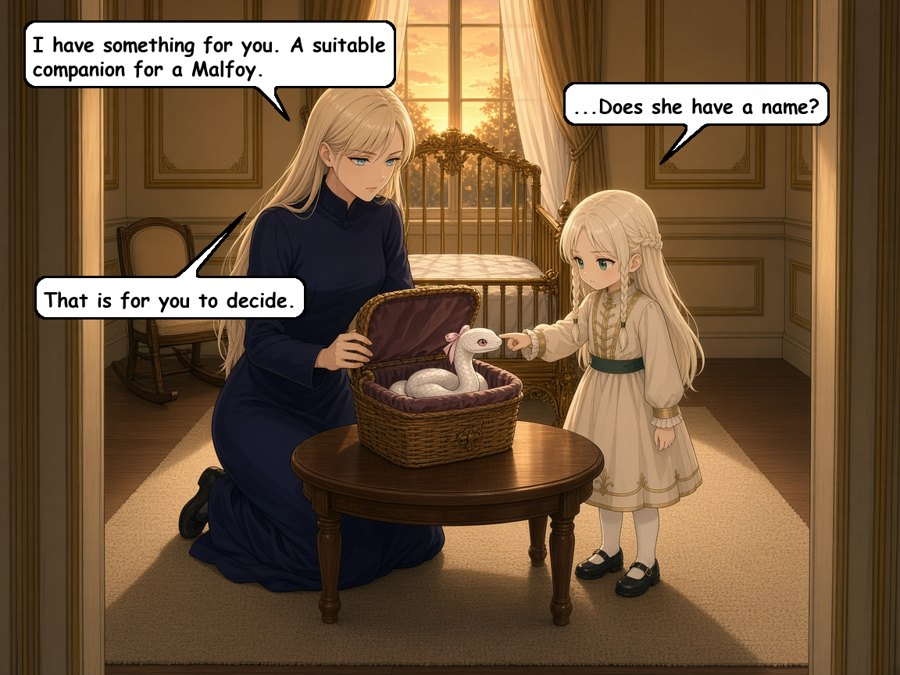
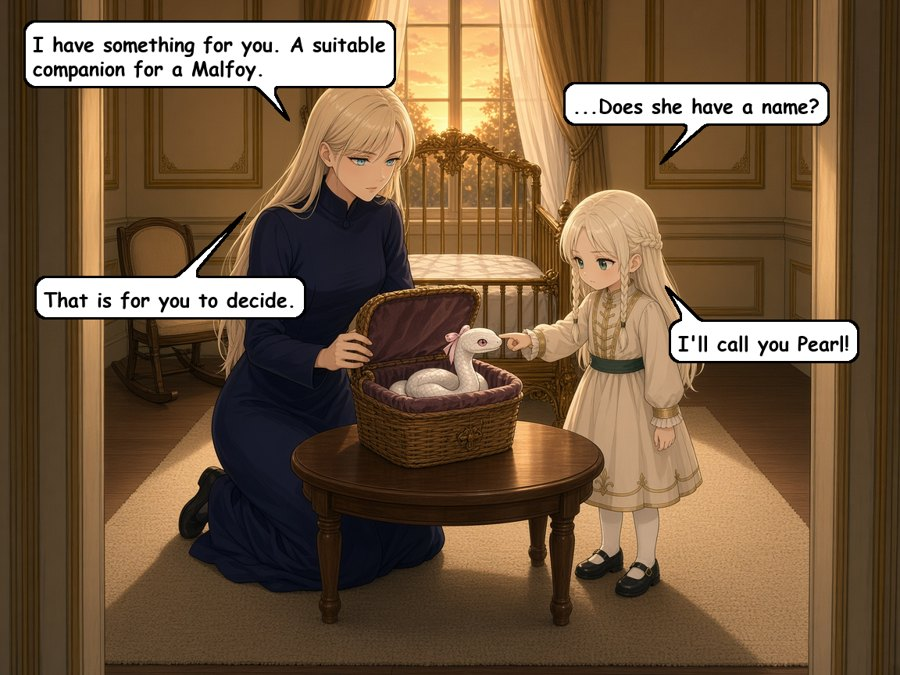
Publish chapter 1: The Quiet Years
Built from the private working repo; 48 panel images.

Changed region(s): [[0.7156, 0.4356, 0.9644, 0.56]]

diff --git a/chapters/ch01/index.html b/chapters/ch01/index.html
@@ -236,7 +236,7 @@ img {
   <figure><img src="img/40.jpg" alt="The tutor stands in the doorway, a dark silhouette holding a ruler across her front, and says: Stand up young miss."></figure>
   <figure><img src="img/41.jpg" alt="Draconia sits on the rug while Dobby cringes away, bowing low with trembling hands. The tutor, ruler in hand, says: A Malfoy does not take tea with the help. Back to the schoolroom. Draconia protests: But he was only-"></figure>
   <figure><img src="img/42.jpg" alt="Close-up of Draconia looking back over her shoulder as she is led away, puzzled and stubborn. Thought: Why is it wrong? He likes tea."></figure>
-  <figure><img src="img/49.jpg" alt="In the nursery Narcissa kneels beside Draconia and opens a basket holding a small white snake. She says: I have something for you. A suitable companion for a Malfoy. Draconia asks: ...Does she have a name? Narcissa answers: That is for you to decide."></figure>
+  <figure><img src="img/49.jpg" alt="In the nursery Narcissa kneels beside Draconia and opens a basket holding a small white snake. She says: I have something for you. A suitable companion for a Malfoy. Draconia asks: ...Does she have a name? Narcissa answers: That is for you to decide. Draconia, touching the snake, says: I&#x27;ll call you Pearl!"></figure>
   <p class="end">End of page 2</p>
 
   <p class="page-label" id="page-3"><span>Page 3 · Lessons, 1985</span><a class="top" href="#contents">↑ Contents</a></p>
